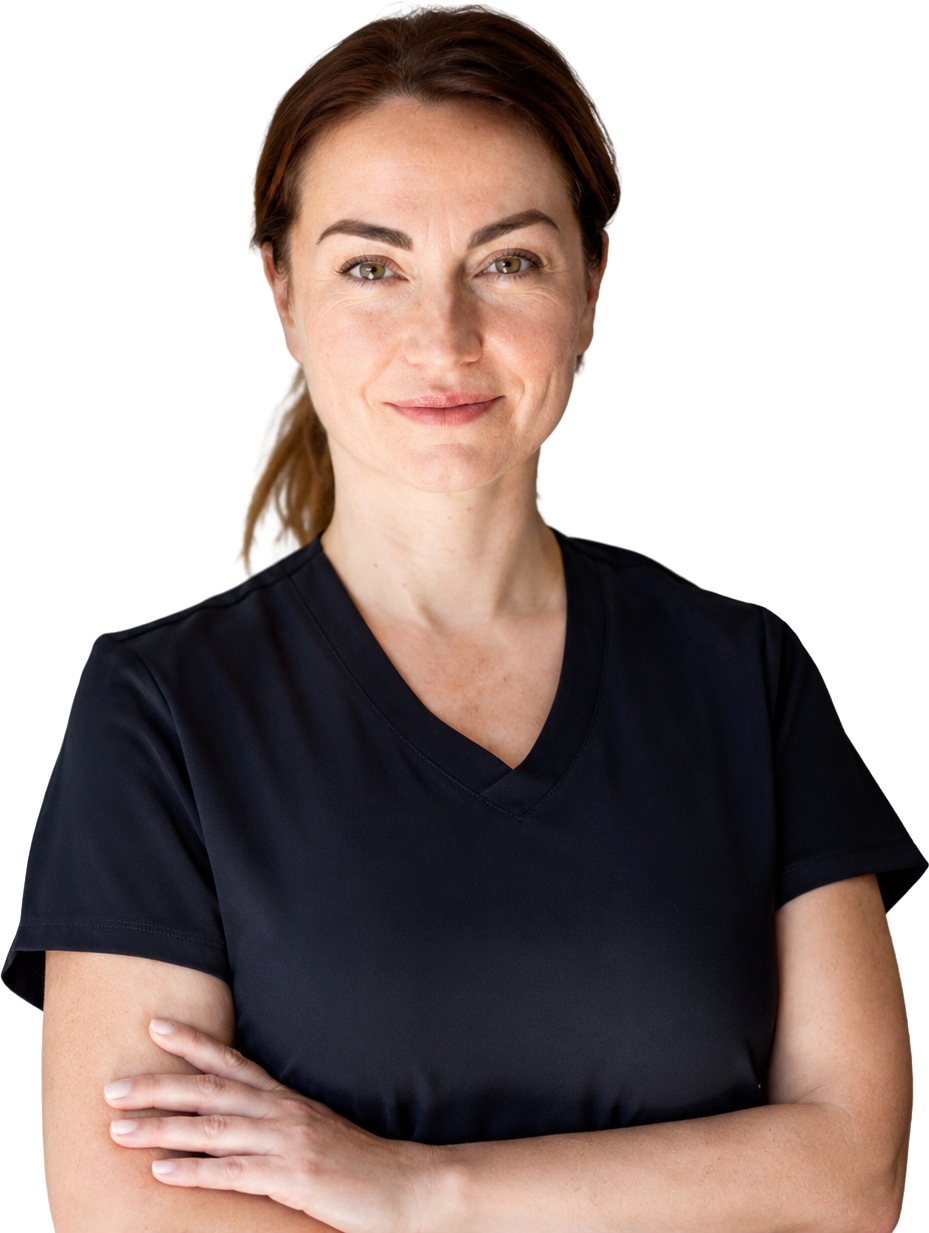
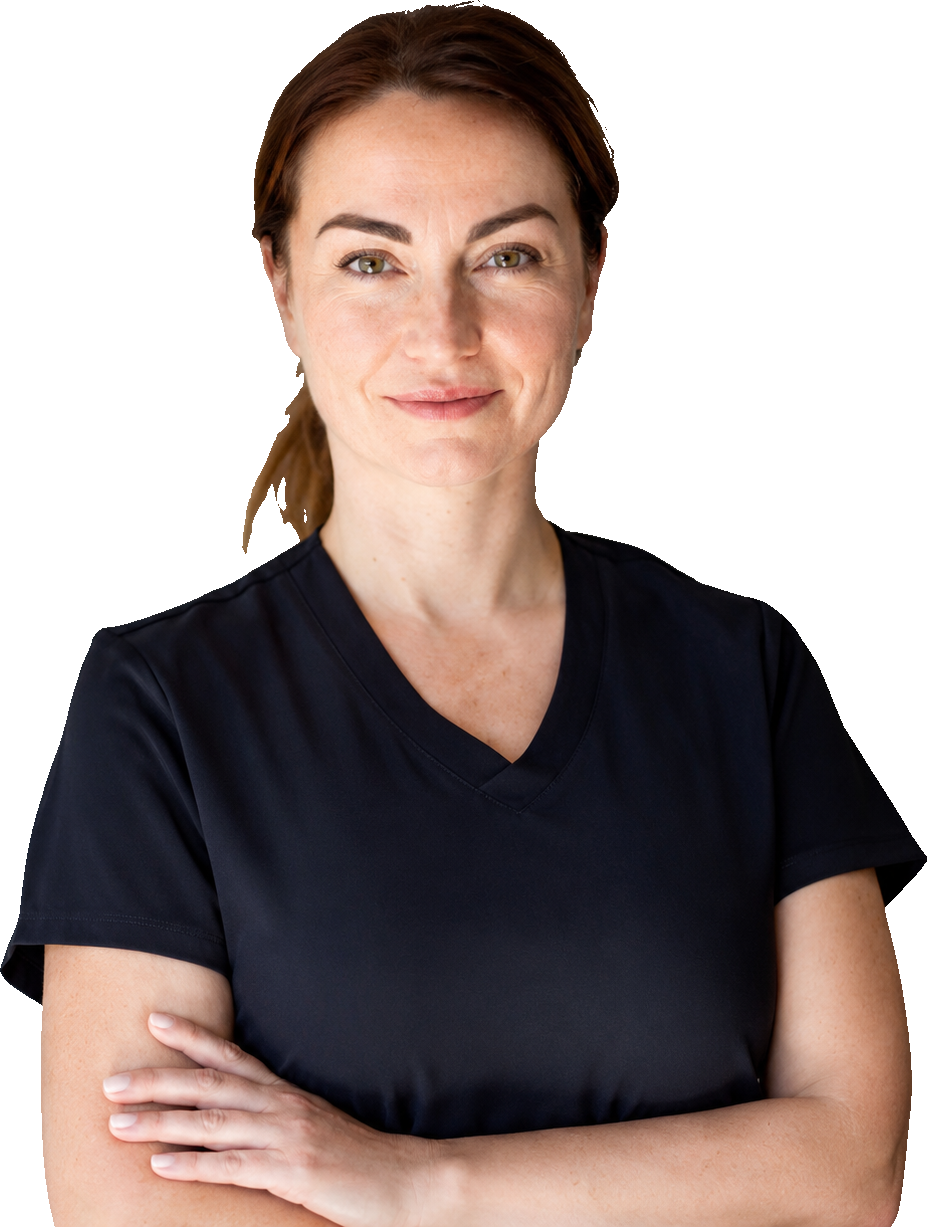
Remove dark semi-transparent fringe from profile photo edges (was causing a visible halo on the mobile circle)

diff --git a/index.html b/index.html
@@ -46,7 +46,7 @@
   <!-- HERO -->
   <section class="hero">
     <div class="hero-portrait-panel">
-      <img src="assets/img/profile.png" alt="Zari, founder of Body Mind Zari" class="portrait-img" width="929" height="1233">
+      <img src="assets/img/profile.png" alt="Zari, founder of Body Mind Zari" class="portrait-img" width="927" height="1227">
     </div>
     <div class="hero-inner">
       <div class="hero-text reveal">
